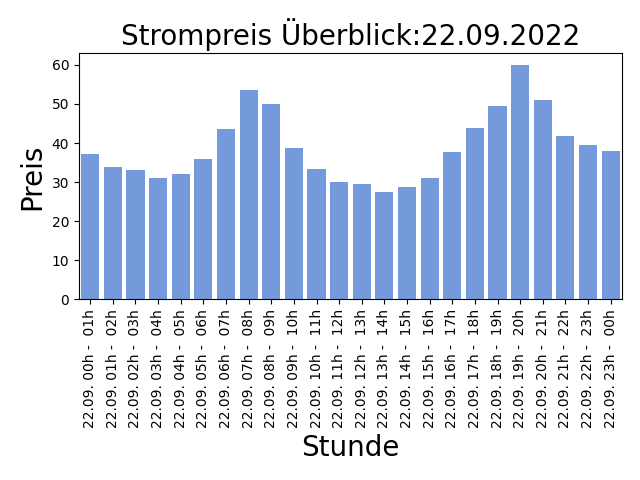
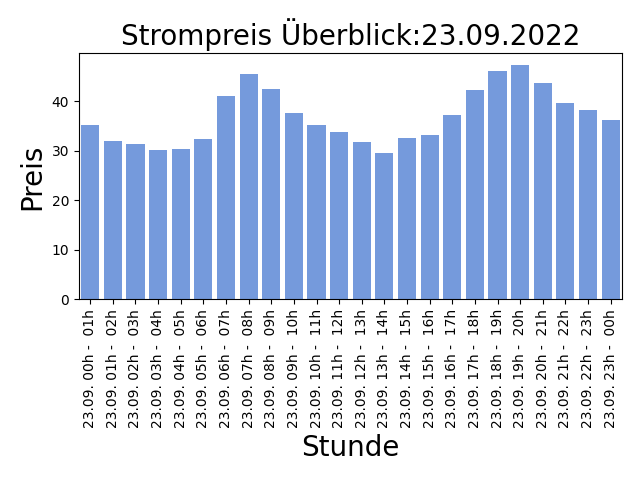
AUTOMATIC UPDATE PRICE LIST: 2022-09-22-14:30:07

diff --git a/README.md b/README.md
@@ -1,5 +1,5 @@
 
-## Strompreise für den 22.09.2022
+## Strompreise für den 23.09.2022
 
 Niedrige Preise deuten auf viel Sonnen und Windenergieerzeugung hin, ein hoher Anteil an erneuerbaren Energien bedeuted weniger CO2 Verbrauch!
 
@@ -7,31 +7,31 @@ Niedrige Preise deuten auf viel Sonnen und Windenergieerzeugung hin, ein hoher A
 
 | Stunde | Preis in Cent/kWh |
 |---|---|
-| 22.09. 00h -  01h | 37.307 | 
-| 22.09. 01h -  02h | 33.941 | 
-| 22.09. 02h -  03h | 33.007999999999996 | 
-| 22.09. 03h -  04h | 31.094 | 
-| 22.09. 04h -  05h | 32.22 | 
-| 22.09. 05h -  06h | 36.0 | 
-| 22.09. 06h -  07h | 43.510000000000005 | 
-| 22.09. 07h -  08h | 53.602999999999994 | 
-| 22.09. 08h -  09h | 49.88 | 
-| 22.09. 09h -  10h | 38.788 | 
-| 22.09. 10h -  11h | 33.39 | 
-| 22.09. 11h -  12h | 30.1 | 
-| 22.09. 12h -  13h | 29.436 | 
-| **22.09. 13h -  14h** | **27.583999999999996** | 
-| 22.09. 14h -  15h | 28.807 | 
-| 22.09. 15h -  16h | 31.094 | 
-| 22.09. 16h -  17h | 37.692 | 
-| 22.09. 17h -  18h | 43.774 | 
-| 22.09. 18h -  19h | 49.368 | 
-| 22.09. 19h -  20h | 60.0 | 
-| 22.09. 20h -  21h | 51.0 | 
-| 22.09. 21h -  22h | 41.838 | 
-| 22.09. 22h -  23h | 39.634 | 
-| 22.09. 23h -  00h | 37.869 | 
+| 23.09. 00h -  01h | 35.256 | 
+| 23.09. 01h -  02h | 32.023 | 
+| 23.09. 02h -  03h | 31.258 | 
+| 23.09. 03h -  04h | 30.048000000000002 | 
+| 23.09. 04h -  05h | 30.312 | 
+| 23.09. 05h -  06h | 32.457 | 
+| 23.09. 06h -  07h | 41.066 | 
+| 23.09. 07h -  08h | 45.529 | 
+| 23.09. 08h -  09h | 42.457 | 
+| 23.09. 09h -  10h | 37.602 | 
+| 23.09. 10h -  11h | 35.092 | 
+| 23.09. 11h -  12h | 33.856 | 
+| 23.09. 12h -  13h | 31.816000000000003 | 
+| **23.09. 13h -  14h** | **29.53** | 
+| 23.09. 14h -  15h | 32.492000000000004 | 
+| 23.09. 15h -  16h | 33.076 | 
+| 23.09. 16h -  17h | 37.214 | 
+| 23.09. 17h -  18h | 42.208999999999996 | 
+| 23.09. 18h -  19h | 46.013 | 
+| 23.09. 19h -  20h | 47.302 | 
+| 23.09. 20h -  21h | 43.561 | 
+| 23.09. 21h -  22h | 39.548 | 
+| 23.09. 22h -  23h | 38.186 | 
+| 23.09. 23h -  00h | 36.093 | 
 
 Preise der EPEX Spot ® Strombörse (neue Preise werden täglich um 14:00 veröffentlicht für den kompletten nächsten Tag).
 
-letzte Aktualisierung:21.09.2022 14:30
+letzte Aktualisierung:22.09.2022 14:30
